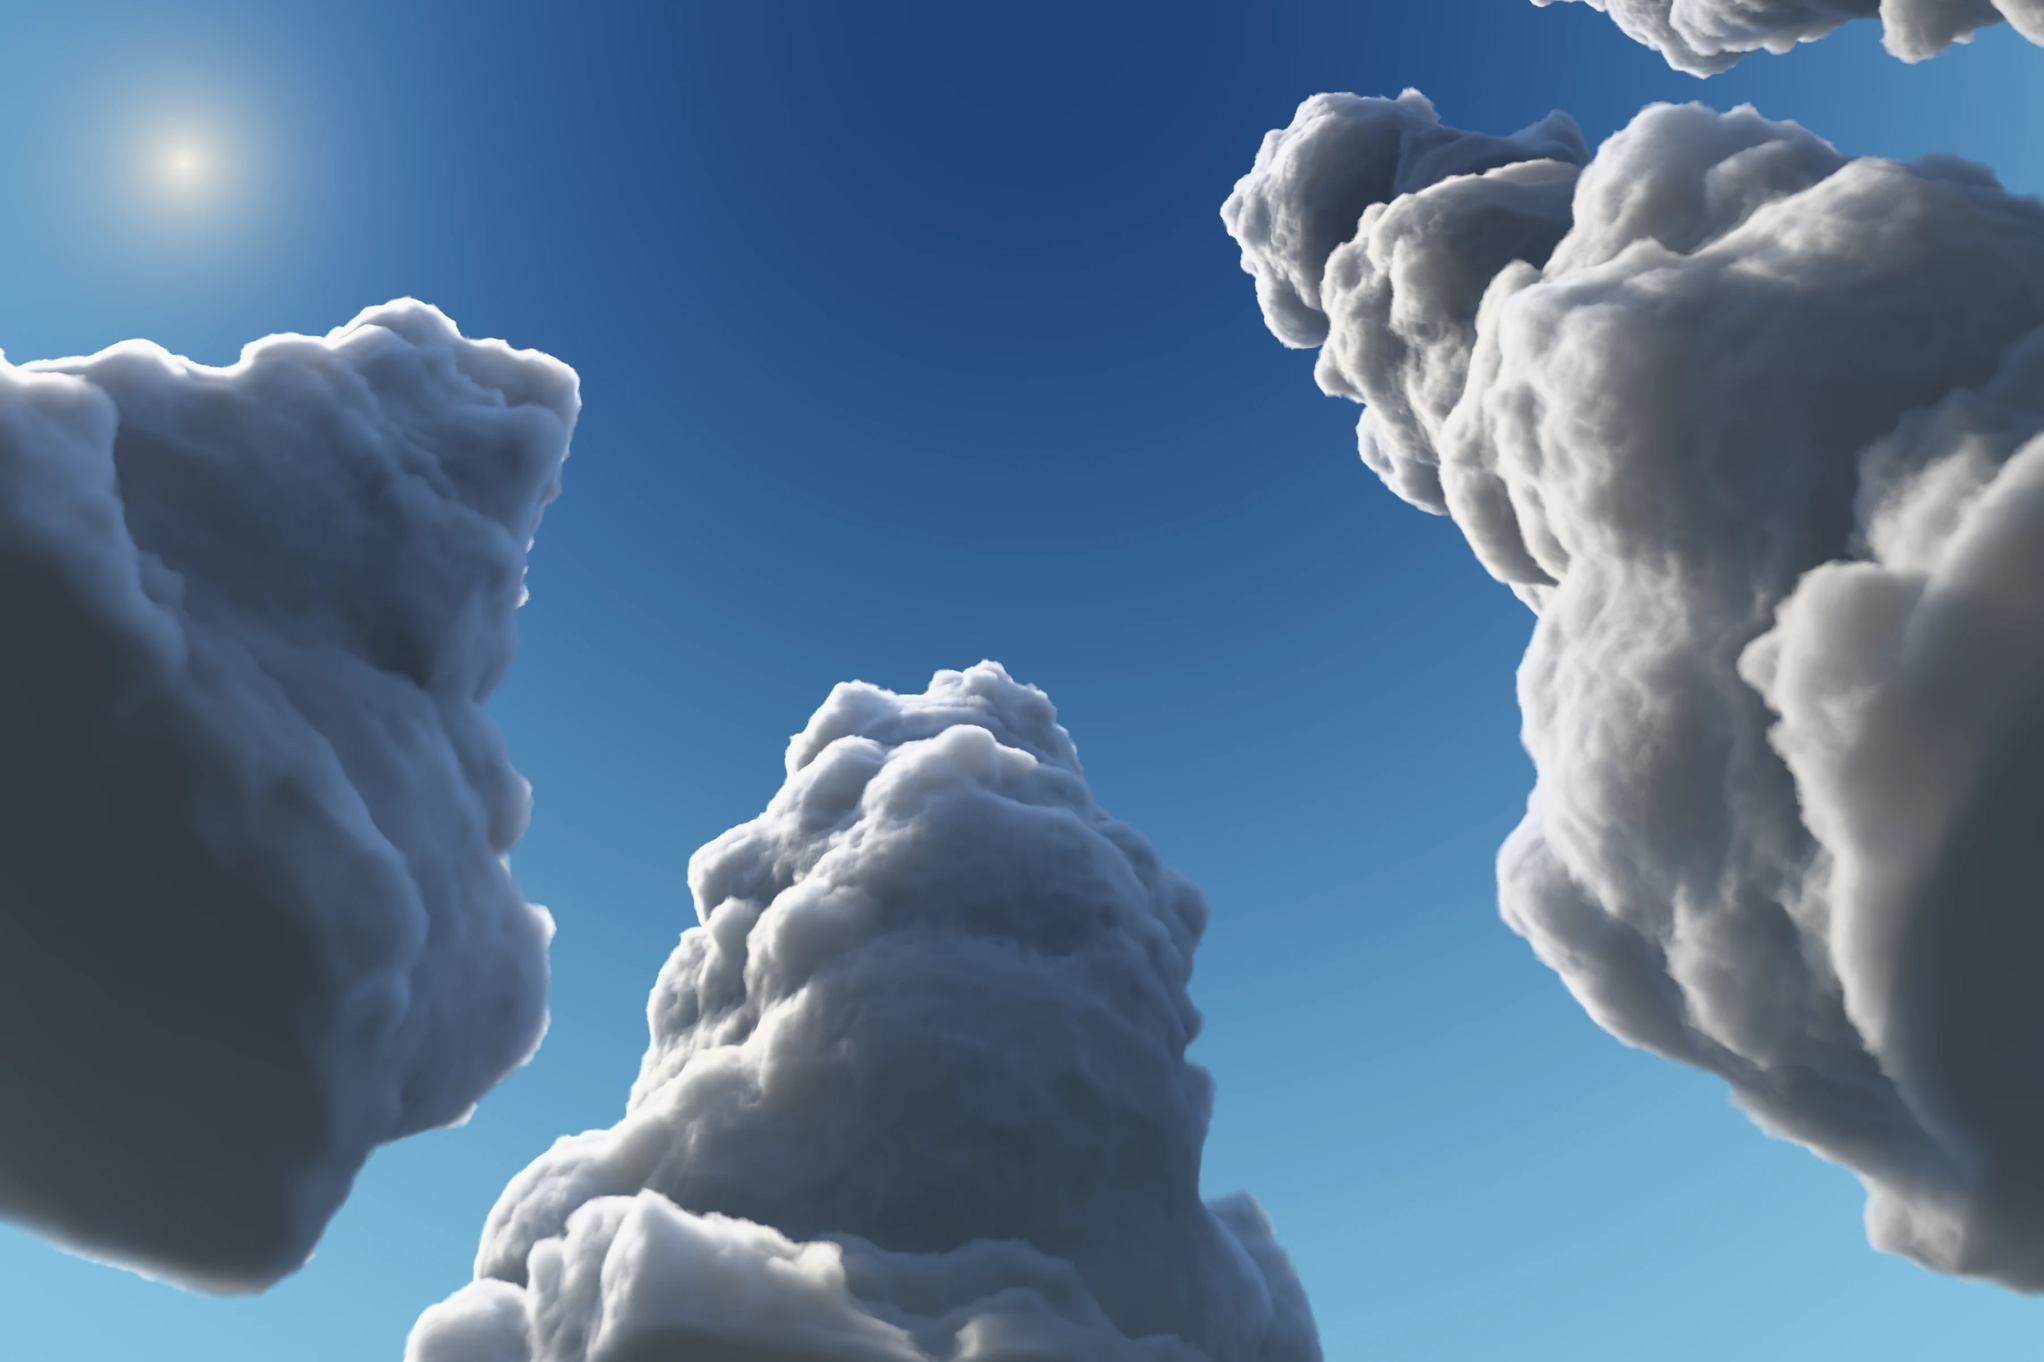
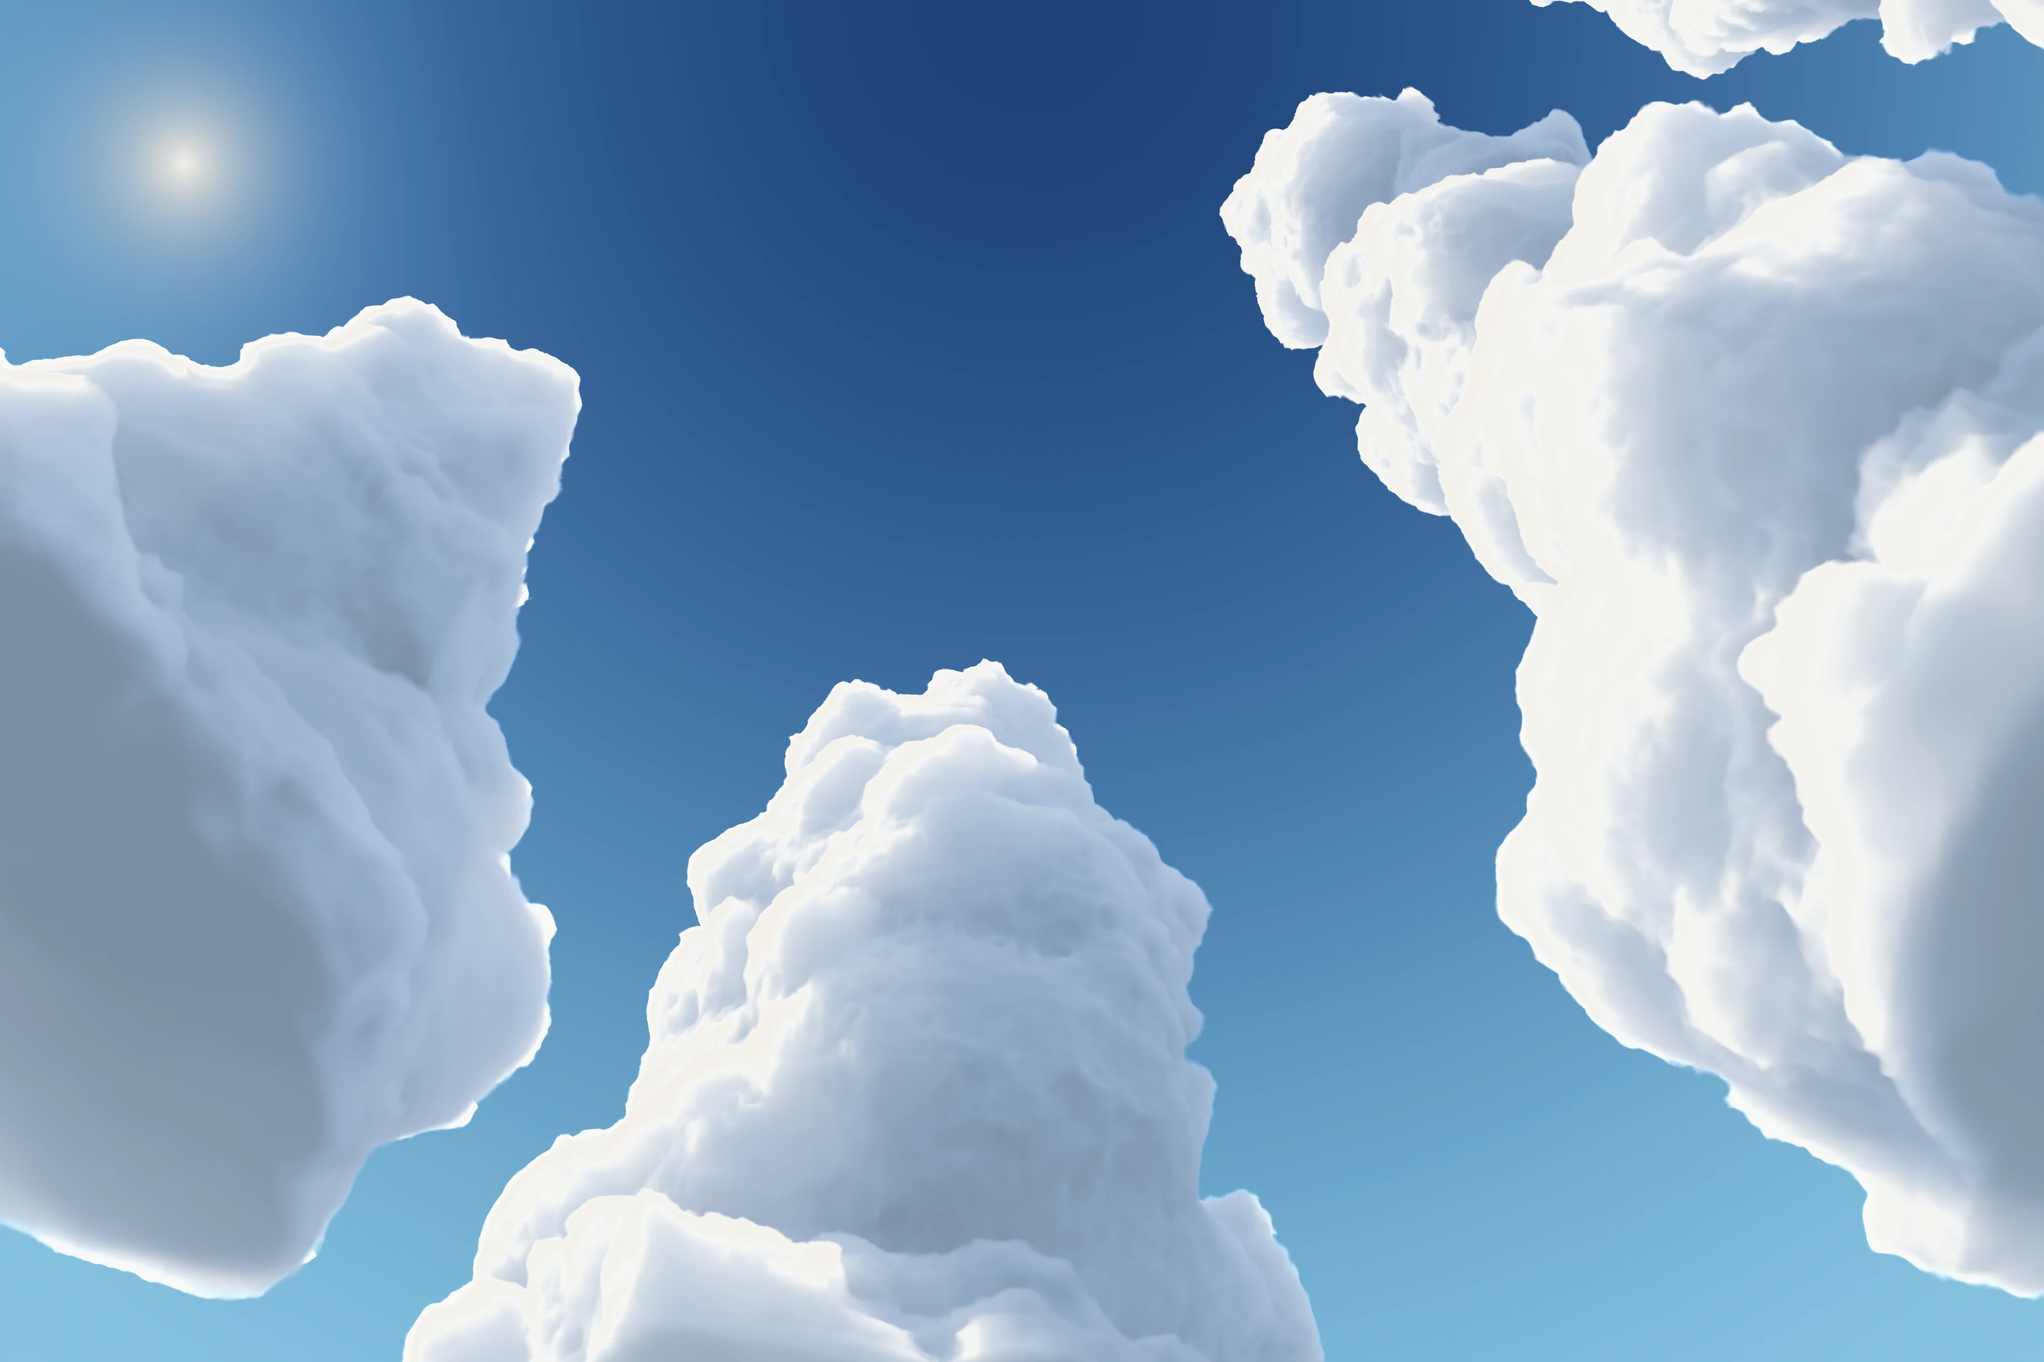
Lab: climb kaze round 3
Claude-Session: https://claude.ai/code/session_01RqENhngNCzDFmJWDZueXGV

diff --git a/src/app/lab/kaze/kazeEngine.js b/src/app/lab/kaze/kazeEngine.js
@@ -74,7 +74,7 @@ uniform vec4 uView;        // the part of the image on screen: x0, y0, w, h (uv)
 
 const vec2 SUN = vec2(${SUN[0].toFixed(4)}, ${SUN[1].toFixed(4)});
 const vec2 ZEN = vec2(${ZEN[0].toFixed(4)}, ${ZEN[1].toFixed(4)});
-const float DOME = 0.7;     // the sunlit domes' lift into the print's warm white
+const float DOME = 0.4;     // the sunlit domes' lift into the print's warm white
 
 vec3 toLin(vec3 c) { return mix(c / 12.92, pow((c + 0.055) / 1.055, vec3(2.4)), step(0.04045, c)); }
 
@@ -139,13 +139,13 @@ void main() {
   // with some red in it; its chroma (the blue's lead over red, as a share of
   // the blue) runs well above the cloud shadow's, so that is held out.
   float cb = (sky.b - sky.r) / max(sky.b, 1e-4);
-  float shade = (1.0 - blue) * smoothstep(0.08, 0.2, Y) * (1.0 - smoothstep(0.4, 0.6, Y));
+  float shade = (1.0 - blue) * smoothstep(0.08, 0.2, Y) * (1.0 - smoothstep(0.5, 0.75, Y));
   shade *= 1.0 - smoothstep(0.72, 0.84, cb);
   // (light: the bake's volume already lights the shade with skylight, so
   // this only keeps it from going slate under the film)
   sky = max(vec3(Y) + (sky - vec3(Y)) * (1.0 + 0.15 * shade), vec3(0.0));
-  const vec3 SKYSH = vec3(0.86, 0.97, 1.12);
-  sky = mix(sky, sky * SKYSH * Y / max(dot(sky * SKYSH, vec3(0.2126, 0.7152, 0.0722)), 1e-4), 0.3 * shade);
+  const vec3 SKYSH = vec3(0.88, 0.96, 1.14);
+  sky = mix(sky, sky * SKYSH * Y / max(dot(sky * SKYSH, vec3(0.2126, 0.7152, 0.0722)), 1e-4), 0.45 * shade);
   // The zenith: straight up the sky is deepest. The HDRI already falls off
   // toward it; this only leans the top of the frame a little further, toward
   // a clean film blue rather than slate. Multiplied, so the sky's own

diff --git a/tools/depth/bakes/kaze/sky_cumulus.py b/tools/depth/bakes/kaze/sky_cumulus.py
@@ -31,20 +31,30 @@ from a grid of optical depth toward the sun (SUN, the frame's top left
 corner, as in kazeEngine.js) and toward the zenith:
 
 - sun: warm-neutral white, with the multiple scattering of a dense cloud
-  (three octaves, each softer and reaching deeper; Wrenninge et al. 2013),
-  so the sunlit domes glow and the light rolls round their shoulders;
-- skylight: cyan-blue, from above, dimmed by the cloud over the sample,
-  so the flanks turned from the sun take the sky's colour and the base,
-  under the whole tower, is the darkest, a flat blue-grey;
+  (four octaves, each with half the extinction, half the contribution and
+  half the forward lobe of the last; Wrenninge et al. 2013), and deeper
+  still a diffusion term (1 / (1 + tau)), so the whole body is lit from
+  within and glows instead of shading as grey clay; the light rolls round
+  the domes' shoulders, warm on the faces toward the sun;
+- skylight: the zenith's pale cyan (hue about 200), from above, dimmed by
+  the cloud over the sample, with high floors (inside a cumulus the sky's
+  light is scattered round too), so the flanks turned from the sun print a
+  luminous skylight cyan and the base, under the whole tower, the deepest;
 - a little warm bounce from the summer ground on the undersides;
-- forward scattering (Henyey-Greenstein) where a thin edge stands between
-  you and the sun: the silver lining, strongest on the mass nearest it;
+- forward scattering (Henyey-Greenstein, g 0.6) where a thin edge stands
+  between you and the sun: the silver lining; and the powder (the skin
+  looking away from the sun a little darker than the cloud just inside it);
+- a soft skin: the density eases in (smoothstep) over its last metres, and
+  the finest billows carry about half their old amplitude, so silhouettes
+  fade into the sky over a few pixels and the domes read as soft billows;
 - a little air between: the far masses lean toward the sky behind them.
 
 The open sky and the sun's bloom are sky_tower.py's (open_sky). The cloud
-is exposed so its brightest domes print under the clip, rolled off to warm
-white by a shoulder; the engine's grade and the film's shoulder carry them
-the rest of the way.
+is exposed by its median (WHITE at PCT 50), so the body sits high, as a
+real cumulus's does (luminance p25/p50 about 185/205 on screen), and its
+brightest domes roll off under the clip through a shoulder that whitens as
+it rolls (DESAT), as film does near its white; the engine's grade and the
+film's shoulder carry them the rest of the way.
 
   python tools/depth/bakes/kaze/sky_cumulus.py [out.webp]
   SCALE=0.5 PREVIEW=preview.png python ...   (a quick half-size look)
@@ -69,16 +79,25 @@ LVOX = float(os.environ.get("LVOX", 0.03))  # km: the light grid
 LUM = np.array([0.2126, 0.7152, 0.0722], np.float32)
 
 # Light, linear, before the exposure.
-SUN_C = np.array([1.0, 0.94, 0.83], np.float32)       # warm-neutral
-SKY_C = np.array([0.26, 0.50, 1.0], np.float32)       # skylight, cyan-blue
+SUN_C = np.array([1.0, 0.91, 0.74], np.float32)       # warm-neutral
+# The skylight, and the multiply scattered light inside the cloud, take the
+# zenith's colour, not grey: a pale cyan (hue about 200), so the flanks
+# turned from the sun print a luminous skylight cyan and never lean lavender.
+SKY_C = np.array([float(c) for c in os.environ.get("SKYC", "0.36,0.62,1.0").split(",")], np.float32)
 GND_C = np.array([0.55, 0.50, 0.40], np.float32)      # bounce off the summer ground
-KS = float(os.environ.get("KS", 1.0))    # sun
-KA = float(os.environ.get("KA", 1.4))   # skylight
+KS = float(os.environ.get("KS", 4.0))    # sun
+KA = float(os.environ.get("KA", 2.4))   # skylight
+KM = float(os.environ.get("KM", 1.4))   # the deep multiple scattering (diffusion)
 KG = float(os.environ.get("KG", 0.05))   # ground bounce
+G0 = float(os.environ.get("G0", 0.6))    # forward lobe of the first octave
+OCT = int(os.environ.get("OCT", 4))      # scattering octaves
+POW = float(os.environ.get("POW", 0.5))  # the powder: how dark the sun-averted skin
 SIGMA = float(os.environ.get("SIGMA", 70.0))  # /km at full density
 RAMP = float(os.environ.get("RAMP", 0.014))   # km: the soft skin, where density climbs to full
-WHITE = float(os.environ.get("WHITE", 0.86))
-PCT = float(os.environ.get("PCT", 97.0))  # linear: where the brightest domes are exposed to
+FINE = float(os.environ.get("FINE", 0.010))   # km: the fine billows' depth
+WHITE = float(os.environ.get("WHITE", 0.77))
+DESAT = float(os.environ.get("DESAT", 0.5))  # how far the shoulder whitens
+PCT = float(os.environ.get("PCT", 50.0))  # the cloud's median is exposed to WHITE (linear)
 
 # The masses: azimuth (deg, 0 straight ahead = the frame's bottom centre,
 # east positive, -90 west, the sun's side); horizontal distance of the axis
@@ -213,8 +232,9 @@ def vnoise(x, y, z, seed):
 
 
 @nb.njit(cache=True)
-def billow(x, y, z, f0, octs, seed):
-    """Billowy fBm (folded value noise): rounded bumps, sharp creases."""
+def billow(x, y, z, f0, octs, seed, gain=0.5):
+    """Billowy fBm (folded value noise): rounded bumps, sharp creases. gain
+    is each octave's amplitude after the last (0.5, pink)."""
     s = 0.0
     a = 0.5
     f = f0
@@ -222,9 +242,21 @@ def billow(x, y, z, f0, octs, seed):
     for o in range(octs):
         s += a * (1.0 - 2.0 * abs(vnoise(x * f, y * f, z * f, seed + o * 17)))
         tot += a
-        a *= 0.5
+        a *= gain
         f *= 2.03
     return s / tot
+
+
+# The fine billows, read live: the crinkle at a few metres. Its octaves fall
+# off faster than pink (gain 0.35, so the finest two carry about half the
+# amplitude they did), so the domes read as soft billows, not a stippled
+# crust; the larger of them still model each dome.
+FGAIN = 0.35
+
+
+@nb.njit(cache=True, inline="always")
+def fine(x, y, z, seed):
+    return 0.45 - billow(x, y, z, 26.0, 4, seed + 3, FGAIN)
 
 
 # ---- the grids ----
@@ -356,7 +388,6 @@ def build_light(sdf, lo, hi, vox, lvox, L, ramp, sigma):
 
 NEAR = 6       # live steps toward the sun
 NDS = 0.012    # km each
-FINE = 0.010   # km: the fine billows' depth
 
 
 @nb.njit(cache=True, inline="always")
@@ -366,7 +397,9 @@ def hg(c, g):
 
 @nb.njit(cache=True, parallel=True)
 def render(DX, DY, DZ, sdf, ts, tu, lo, hi, vox, lvox, L, zb, zt, ramp, sigma, seed,
-           sunc, skyc, gndc, ks, ka, kg, out, trans):
+           sunc, skyc, gndc, P, out, trans):
+    """P: ks, ka, km, kg, g0, octaves, powder, fine depth."""
+    ks, ka, km, kg, g0, noct, powk, fd = P[0], P[1], P[2], P[3], P[4], int(P[5]), P[6], P[7]
     Hh, Ww = DX.shape
     for py in nb.prange(Hh):
         for px in range(Ww):
@@ -392,9 +425,20 @@ def render(DX, DY, DZ, sdf, ts, tu, lo, hi, vox, lvox, L, zb, zt, ramp, sigma, s
             if not ok or t1 <= t0:
                 continue
             cosv = dx * L[0] + dy * L[1] + dz * L[2]
-            ph0 = 0.75 * hg(cosv, 0.55) + 0.25 * hg(cosv, -0.15)
-            ph1 = 0.6 * hg(cosv, 0.35) + 0.4 * hg(cosv, -0.1)
-            ph2 = 1.0 / (4 * math.pi)
+            # the phase of each octave of scattering: a Henyey-Greenstein
+            # forward lobe (g0 for the single scattering, the silver lining),
+            # with a little back lobe, each octave's lobe half as forward
+            PH = np.empty(8)
+            gg = g0
+            for o in range(noct):
+                PH[o] = (0.85 * hg(cosv, gg) + 0.15 * hg(cosv, -0.25 * gg)) * 4 * math.pi
+                gg *= 0.5
+            # the powder: looking away from the sun, the skin of a dome has
+            # had no depth yet to scatter light toward you and prints a
+            # little darker than the cloud a few metres in (the dark-edged,
+            # bright-cored look of a cumulus seen side- or down-sun); looking
+            # toward the sun it is not, and the forward lobe silvers it
+            pw_on = powk * min(max(0.5 - 0.5 * cosv, 0.0), 1.0)
             T = 1.0
             cr = 0.0
             cg = 0.0
@@ -402,6 +446,7 @@ def render(DX, DY, DZ, sdf, ts, tu, lo, hi, vox, lvox, L, zb, zt, ramp, sigma, s
             t = t0
             st = vox * 0.45
             n = 0
+            tv = 0.0   # optical depth along the view, so far
             while t < t1 and T > 0.004 and n < 4000:
                 n += 1
                 x = dx * t
@@ -412,8 +457,12 @@ def render(DX, DY, DZ, sdf, ts, tu, lo, hi, vox, lvox, L, zb, zt, ramp, sigma, s
                     t += max(st, (s - ramp * 1.2) * 0.6)
                     continue
                 # the fine billows, read live
-                s += FINE * (0.45 - billow(x, y, z, 26.0, 4, seed + 3))
+                s += fd * fine(x, y, z, seed)
                 dn = min(max(-s / ramp + 0.5, 0.0), 1.0)
+                # the skin: density eases in over its last few metres
+                # (smoothstep, not linear), so a silhouette fades into the
+                # sky over a few pixels rather than cutting against it
+                dn = dn * dn * (3.0 - 2.0 * dn)
                 if dn <= 0.0:
                     t += st
                     continue
@@ -429,15 +478,30 @@ def render(DX, DY, DZ, sdf, ts, tu, lo, hi, vox, lvox, L, zb, zt, ramp, sigma, s
                     qz = z + L[2] * q * NDS
                     sq = tri(sdf, lo, vox, qx, qy, qz)
                     if sq < ramp * 1.6:
-                        sq += FINE * (0.45 - billow(qx, qy, qz, 26.0, 4, seed + 3))
+                        sq += fd * fine(qx, qy, qz, seed)
                         tau_s += sigma * min(max(-sq / ramp + 0.5, 0.0), 1.0) * NDS
                 tau_s += tri0(ts, lo, lvox, x + L[0] * (NEAR + 0.5) * NDS, y + L[1] * (NEAR + 0.5) * NDS, z + L[2] * (NEAR + 0.5) * NDS)
                 tau_u = tri0(tu, lo, lvox, x, y, z)
                 hn = min(max((z - zb) / (zt - zb), 0.0), 1.0)
-                # sun: three octaves of scattering, each softer and deeper
-                sun = (math.exp(-tau_s) * ph0 + 0.5 * math.exp(-0.22 * tau_s) * ph1
-                       + 0.18 * ph2 / (1.0 + 0.1 * tau_s)) * 4 * math.pi
-                # the sky from above, dimmed by the cloud over the sample
+                # sun: octaves of multiple scattering (Wrenninge et al. 2013),
+                # each with half the extinction, half the contribution and
+                # half the forward lobe of the last, so the light reaches
+                # deeper and spreads softer, and the sunlit domes glow
+                sun = 0.0
+                ea = 1.0
+                eb = 1.0
+                for o in range(noct):
+                    sun += eb * math.exp(-ea * tau_s) * PH[o]
+                    ea *= 0.5
+                    eb *= 0.5
+                # the powder on the single scattering (only the view's first
+                # few metres in, and only looking away from the sun)
+                sun *= 1.0 - pw_on * math.exp(-2.0 * tv)
+                # deeper still, the light diffuses: what a thick cloud passes
+                # falls off as 1 / (1 + tau), not exponentially; it lights the
+                # whole body from within, so the shaded mass is luminous and
+                # not grey clay
+                ms = 1.0 / (1.0 + 0.06 * tau_s)
                 # The skylight's modelling: the surface's normal from the
                 # grid, the sky taken more from above than below (so the
                 # flat base, facing down, stays the darkest), and an
@@ -459,21 +523,27 @@ def render(DX, DY, DZ, sdf, ts, tu, lo, hi, vox, lvox, L, zb, zt, ramp, sigma, s
                     qz = z + gz * dd
                     sq = tri(sdf, lo, vox, qx, qy, qz)
                     if sq < 0.12:
-                        sq += FINE * (0.45 - billow(qx, qy, qz, 26.0, 4, seed + 3))
+                        sq += fd * fine(qx, qy, qz, seed)
                     ao += min(max(sq / dd, 0.0), 1.0) / dd
                     wt += 1.0 / dd
                 ao /= wt
-                sky = ((0.35 + 0.65 * math.exp(-0.05 * tau_u)) * (0.6 + 0.4 * hn)
-                       * (0.62 + 0.38 * gz) * (0.45 + 0.55 * ao))
+                # the sky from above, dimmed by the cloud over the sample;
+                # the floors are high: inside a cumulus the skylight is
+                # itself scattered round many times, so no face goes dark
+                sky = ((0.55 + 0.45 * math.exp(-0.05 * tau_u)) * (0.7 + 0.3 * hn)
+                       * (0.72 + 0.28 * gz) * (0.6 + 0.4 * ao))
                 gnd = (1 - hn) ** 2
-                er = ks * sun * sunc[0] + ka * sky * skyc[0] + kg * gnd * gndc[0]
-                eg = ks * sun * sunc[1] + ka * sky * skyc[1] + kg * gnd * gndc[1]
-                eb = ks * sun * sunc[2] + ka * sky * skyc[2] + kg * gnd * gndc[2]
+                # the diffuse light inside takes the sky's colour as much as
+                # the sun's: it has bounced between cloud and sky
+                er = ks * sun * sunc[0] + ka * sky * skyc[0] + km * ms * (0.5 * sunc[0] + 0.5 * skyc[0]) + kg * gnd * gndc[0]
+                eg = ks * sun * sunc[1] + ka * sky * skyc[1] + km * ms * (0.5 * sunc[1] + 0.5 * skyc[1]) + kg * gnd * gndc[1]
+                eb_ = ks * sun * sunc[2] + ka * sky * skyc[2] + km * ms * (0.5 * sunc[2] + 0.5 * skyc[2]) + kg * gnd * gndc[2]
                 a = 1 - math.exp(-sg * st)
                 cr += T * a * er
                 cg += T * a * eg
-                cb += T * a * eb
+                cb += T * a * eb_
                 T *= 1 - a
+                tv += sg * st
                 t += st
             out[py, px, 0] = cr
             out[py, px, 1] = cg
@@ -491,6 +561,7 @@ def main():
     DX, DY, DZ = [np.ascontiguousarray(D[..., i]) for i in range(3)]
     del D
     L = unit(ray_at(*SUN)).astype(np.float64)
+    PRM = np.array([KS, KA, KM, KG, G0, OCT, POW, FINE], np.float64)
     skyl = open_sky(U, V).astype(np.float32)
 
     # the masses, far to near (by the axis' distance)
@@ -508,7 +579,7 @@ def main():
         o = np.zeros((H, W, 3), np.float32)
         tt = np.ones((H, W), np.float32)
         render(DX, DY, DZ, sdf, ts, tu, lo, hi2, VOX, LVOX, L, T["zb"], T["zt"], RAMP, SIGMA,
-               SEED + T["seed"] * 31, SUN_C, SKY_C, GND_C, KS, KA, KG, o, tt)
+               SEED + T["seed"] * 31, SUN_C, SKY_C, GND_C, PRM, o, tt)
         # a little air: the mass leans toward the sky behind it with distance
         dist = np.hypot(T["dist"], (T["zb"] + T["zt"]) / 2)
         haze = 1 - np.exp(-dist / 30.0)
@@ -530,14 +601,25 @@ def main():
     rad *= gain
     # a print's shoulder on the cloud: the brightest roll off to warm white
     m = rad.max(-1)
-    K, TOP = 0.72, 0.95
+    K, TOP = float(os.environ.get("KNEE", 0.5)), float(os.environ.get("TOP", 0.92))
     sm = np.where(m < K, m, K + (TOP - K) * (1 - np.exp(-(m - K) / (TOP - K))))
     rad = rad * (sm / np.maximum(m, 1e-6))[..., None]
+    # and as it rolls off it loses its colour, as film's does near its white:
+    # the brightest domes print a clean white, the sunlit ones a touch warm
+    # (their light is the sun's), and only the shade keeps the sky's cyan
+    w = DESAT * np.where(m < K, 0.0, 1 - np.exp(-(m - K) / (TOP - K)))[..., None]
+    rad = rad * (1 - w) + (rad @ LUM)[..., None] * w
     acc = rad + tr[..., None] * skyl
     s8 = enc(acc)
     rng = np.random.default_rng(3)
     s8 = s8 + (rng.random(s8.shape, np.float32) - 0.5) / 255
     img = (np.clip(s8, 0, 0.975) * 255 + 0.5).astype(np.uint8)
+    # the print's cloud, as it is measured against the reference: luminance
+    # percentiles of the solid cloud, and the colour of its shaded fifth
+    Yc = (img[solid].astype(np.float32) @ (LUM * 1.0))
+    sh = img[solid][Yc < np.percentile(Yc, 20)].mean(0)
+    print("cloud Y 10/25/50/75/90/99", np.percentile(Yc, [10, 25, 50, 75, 90, 99]).round().tolist(),
+          "shade rgb", sh.round().tolist(), flush=True)
     if out_path:
         Image.fromarray(img).save(out_path, quality=90, method=6)
     else:
